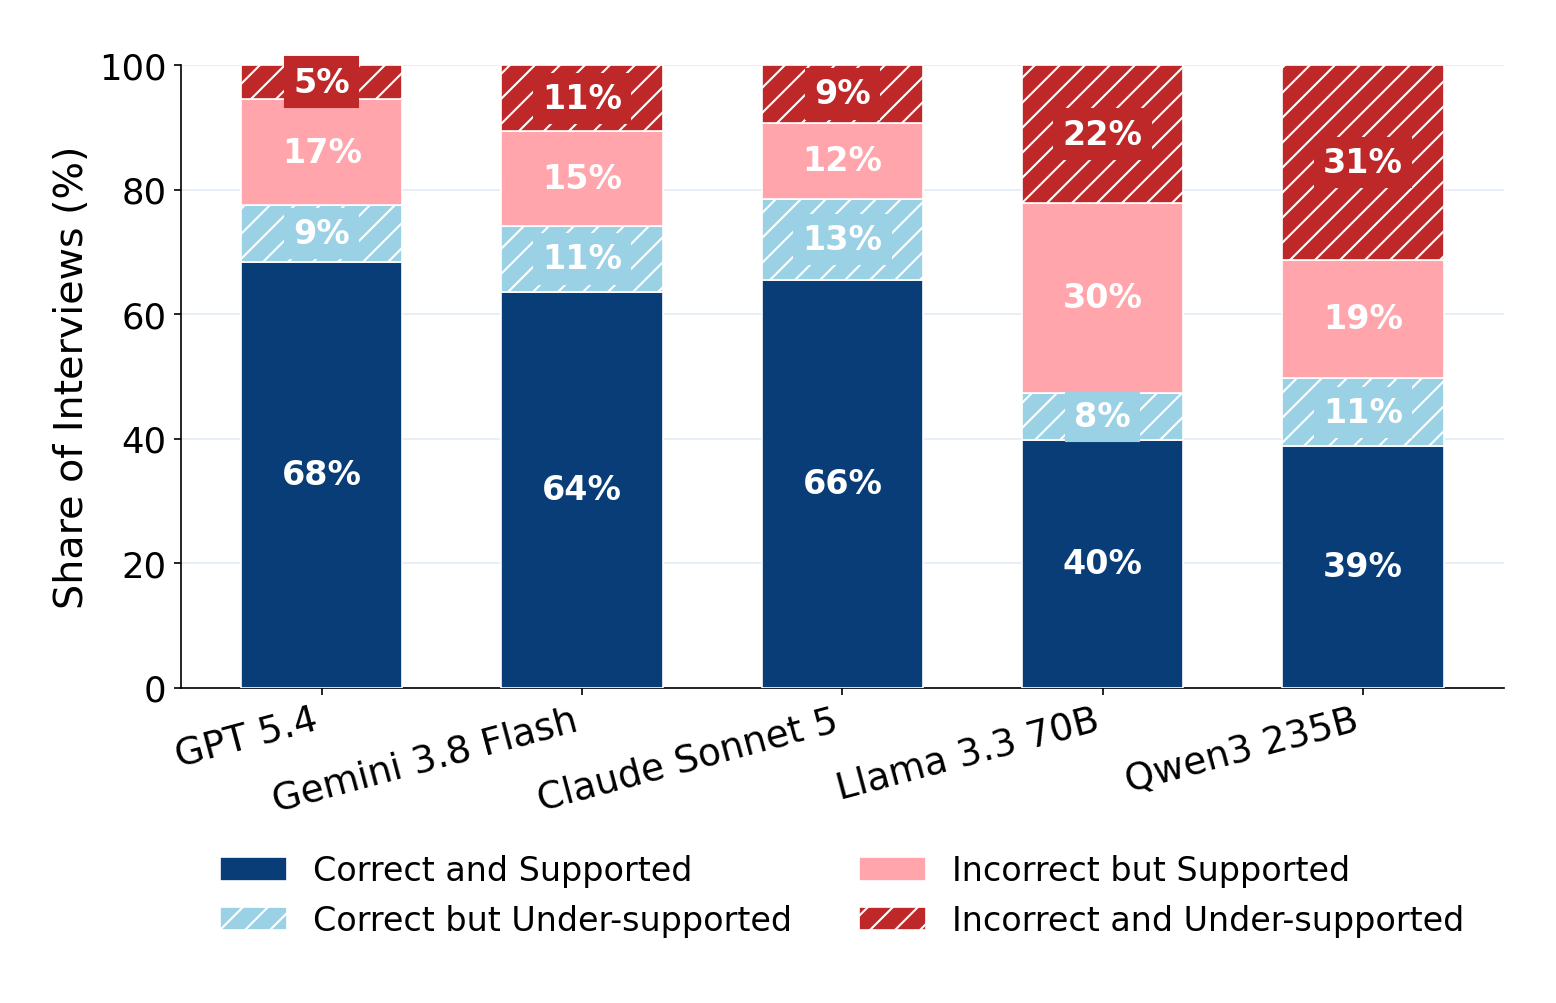
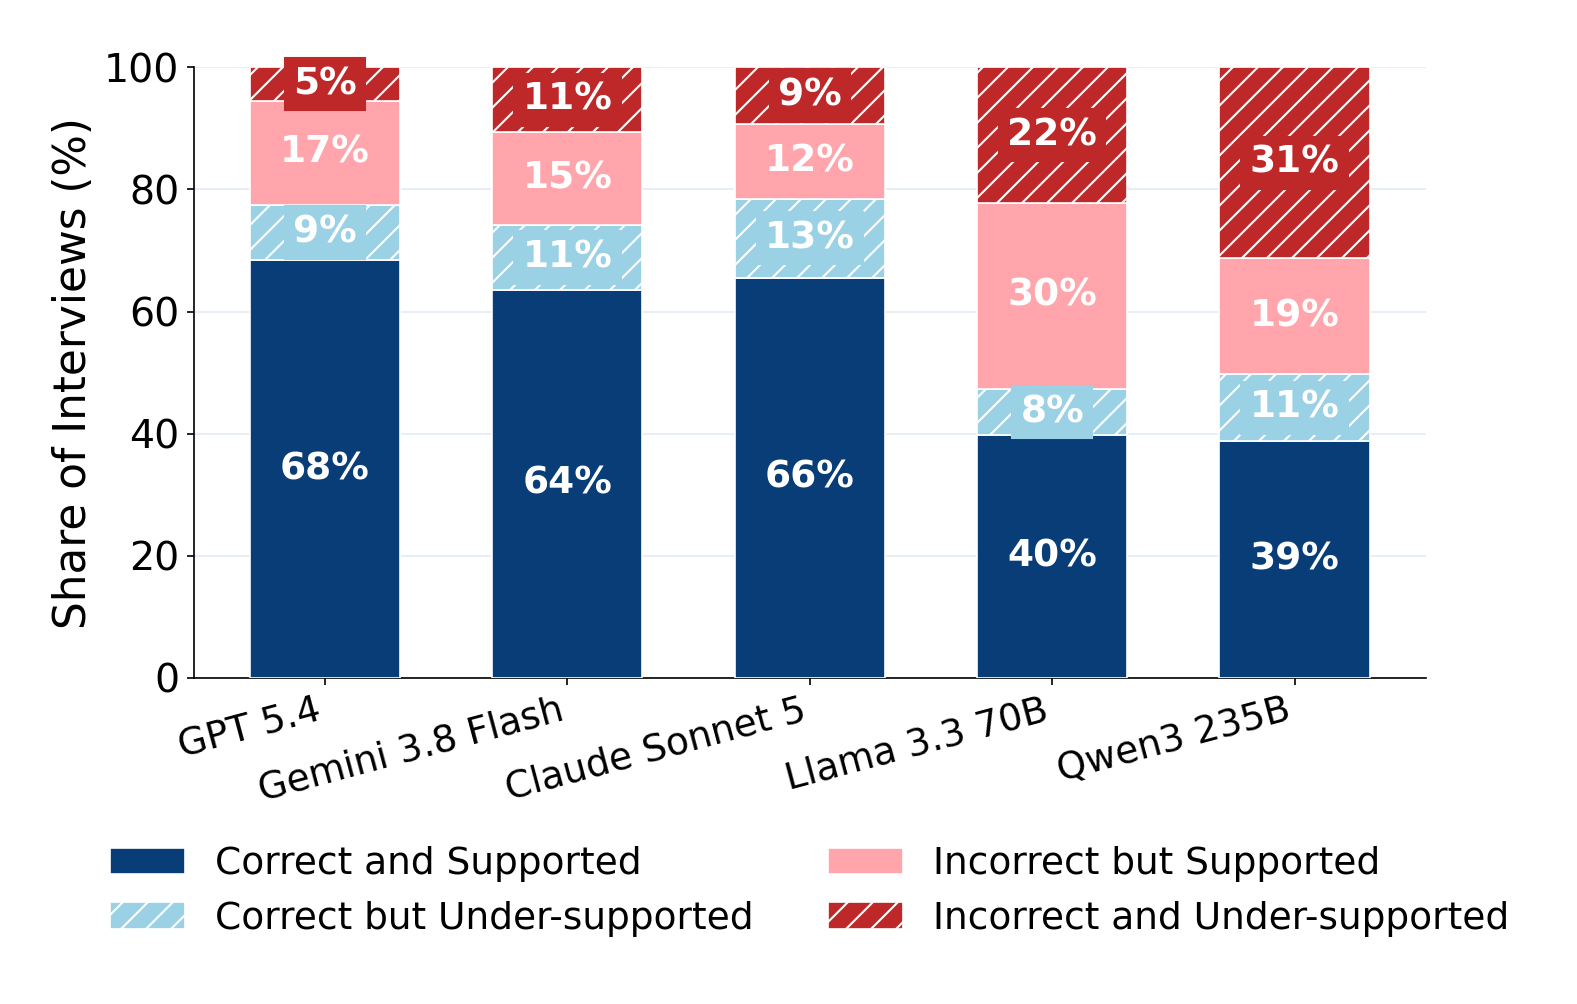
update: reporting figure styling and regenerated analysis figures
- reporting: larger fonts and adjusted layout/legends in
  plot_decision_vs_evidence, plot_narrowing_progress (t=1 tick label),
  plot_overcommitment_marimekko, plot_v4_precision_vs_recall,
  plot_v4_radar_by_judge; default MS_RUN=run_batch_20260912 where missing
- remove reporting/plot_v4_inference_quality_correlations.py (superseded)
- saved/run_batch_20260912/analysis: regenerated figures and
  v4_metrics_summary_plain.xlsx

diff --git a/reporting/plot_overcommitment_marimekko.py b/reporting/plot_overcommitment_marimekko.py
@@ -32,6 +32,7 @@ Usage:
 from __future__ import annotations
 
 import argparse
+import os
 from pathlib import Path
 
 import matplotlib.pyplot as plt
@@ -41,6 +42,8 @@ import sys as _sys
 _REPO_ROOT = Path(__file__).resolve().parent.parent
 if str(_REPO_ROOT) not in _sys.path:
     _sys.path.insert(0, str(_REPO_ROOT))
+
+os.environ.setdefault("MS_RUN", "run_batch_20260912")
 
 from utils.paths import ANALYSIS_ROOT, RUN_ROOT
 from reporting.plot_overcommitment_by_judge import COLOR_CONFIDENT, COLOR_OVERCOMMIT, _order_rank
@@ -96,7 +99,7 @@ def main() -> None:
     )) * 1.06
 
     for judge, rows in panels:
-        fig, ax = plt.subplots(figsize=(8.5, 1.1 * len(rows) + 1.8))
+        fig, ax = plt.subplots(figsize=(11.5, 1.1 * len(rows) + 1.8))
 
         n_rows = len(rows)
         for i, (doctor, s) in enumerate(rows):
@@ -117,10 +120,10 @@ def main() -> None:
             if pinned_h > 0:
                 ax.barh(slot_bottom, pinned_mean, height=pinned_h, align="edge",
                         color=COLOR_PINNED, edgecolor="white", linewidth=0.6, zorder=3)
-                if pinned_h > 0.06:
+                if pinned_h > 0.10:
                     ax.text(pinned_mean + ymax * 0.012, slot_bottom + pinned_h / 2,
                             f"{pinned_mean:.1f}", ha="left", va="center", 
-                            fontsize=14,
+                            fontsize=16, fontweight="bold",
                               color=COLOR_PINNED)
 
             if narrow_h > 0:
@@ -132,26 +135,26 @@ def main() -> None:
                 # (matches plot_overcommitment_by_judge.py's labeling)
                 if narrow_h > 0.10 and t1c > ymax * 0.04:
                     ax.text(t1c - 1, slot_bottom + pinned_h + narrow_h / 2,
-                            f"{t1c:.1f}", ha="center", va="center", fontsize=14, color="white", fontweight="bold")
+                            f"{t1c:.1f}", ha="center", va="center", fontsize=16, color="white", fontweight="bold")
                 # overcommitment (turns after 1st confident) value, centered
                 # in its own segment — same convention as the t1c label above.
                 if narrow_h > 0.10 and oc > ymax * 0.04:
                     ax.text(t1c + oc / 2, slot_bottom + pinned_h + narrow_h / 2,
-                            f"+{oc:.1f}", ha="center", va="center", fontsize=14,
+                            f"+{oc:.1f}", ha="center", va="center", fontsize=16,
                             color="white", fontweight="bold")
                 if narrow_h > 0.06:
                     ax.text(t1c + oc + ymax * 0.012, slot_bottom + pinned_h + narrow_h / 2,
-                            f"{t1c + oc:.1f}", ha="left", va="center", fontsize=14, color="#1C2333")
+                            f"{t1c + oc:.1f}", ha="left", va="center", fontsize=16, fontweight="bold", color="#1C2333")
 
             # share labels inside the base of each bar (white, small) rather
             # than past the bar's end, which would collide with the value
             # label placed there.
             if pinned_h > 0.10 and pinned_mean > ymax * 0.04:
                 ax.text(ymax * 0.012, slot_bottom + pinned_h / 2, f"{pinned_frac*100:.0f}%",
-                        ha="left", va="center", fontsize=14, color="white", fontweight="bold")
+                        ha="left", va="center", fontsize=16, color="white", fontweight="bold")
             if narrow_h > 0.10 and (t1c + oc) > ymax * 0.04:
                 ax.text(ymax * 0.012, slot_bottom + pinned_h + narrow_h / 2, f"{narrow_frac*100:.0f}%",
-                        ha="left", va="center", fontsize=14, color="white", fontweight="bold")
+                        ha="left", va="center", fontsize=16, color="white", fontweight="bold")
 
         # Break each canonical name onto two lines (before the last word) so
         # long names don't force extra left margin on the y-axis.
@@ -170,19 +173,19 @@ def main() -> None:
         # ax.set_title(f"Judge: {judge}", fontsize=12.5, fontweight="bold", pad=10)
         ax.grid(axis="x", color="#E4EBF5", linewidth=0.8, zorder=0)
         ax.spines[["top", "right"]].set_visible(False)
-        ax.set_xlabel("Mean turn count", fontsize=16)
-        ax.tick_params(axis="x", labelsize=12)
+        ax.set_xlabel("Mean turn count", fontsize=18)
+        ax.tick_params(axis="x", labelsize=14)
 
         handles = [
             plt.Rectangle((0, 0), 1, 1, color=COLOR_PINNED,
-                          label="Single fixed candidate\n" + r"(non-narrowing case; $\hat{C}_{\{1,\dots\}}=1$)"),
+                          label="Single fixed candidate\n" + r"(non-narrowing case; $\hat{C}_1=1$)"),
             plt.Rectangle((0, 0), 1, 1, color=COLOR_CONFIDENT,
                           label="Turns to convergence\n" + r"(narrowing case; $\hat{C}_t > 1$)"),
             plt.Rectangle((0, 0), 1, 1, color=COLOR_OVERCOMMIT,
                           label="Extended inquiry\n" + r"(narrowing case; $\hat{C}_t = 1$)"),
         ]
-        ax.legend(handles=handles, fontsize=14, loc="center right",
-                  bbox_to_anchor=(1, 0.6), borderaxespad=0.0,
+        ax.legend(handles=handles, fontsize=16, loc="center right",
+                  bbox_to_anchor=(1, 0.5), borderaxespad=0.0,
                 )#frameon=False)
 
         style_note = f"style={style}" if style else "all styles"

diff --git a/reporting/plot_v4_precision_vs_recall.py b/reporting/plot_v4_precision_vs_recall.py
@@ -118,10 +118,10 @@ def main() -> None:
 
     diag_lo = min(x_lo, y_lo)
     diag_hi = max(x_hi, y_hi)
-    ax.plot([diag_lo, diag_hi], [diag_lo, diag_hi], color="#c3c2b7", linewidth=1.2,
+    ax.plot([diag_lo, diag_hi], [diag_lo, diag_hi], color="#8a8977", linewidth=1.2,
             linestyle=":", zorder=1, clip_on=True)
     ax.annotate("precision = recall", (x_hi, min(x_hi, y_hi)), textcoords="offset points",
-                xytext=(-6, 4), ha="right", fontsize=10, color="#898781", style="italic")
+                xytext=(-6, 4), ha="right", fontsize=14, color="#5c5b55", style="italic")
 
     seen_models: set[str] = set()
     for judge, doctor, x, y in points:
@@ -132,14 +132,14 @@ def main() -> None:
                    edgecolors="white", linewidths=0.8, zorder=3, label=label)
         ax.annotate(DOCTOR_NAME_CANONICAL.get(doctor.lower(), doctor), (x, y),
                     textcoords="offset points", xytext=(7, 6),
-                    fontsize=12, color="#3a3a38")
+                    fontsize=14, color="#3a3a38")
 
     ax.set_xlim(x_lo, x_hi)
     ax.set_ylim(y_lo, y_hi)
 
-    ax.set_xlabel("Recall", fontsize=14, color="#52514e")
-    ax.set_ylabel("Precision", fontsize=14, color="#52514e")
-    ax.tick_params(axis="both", labelsize=12)
+    ax.set_xlabel("Recall", fontsize=16, color="#52514e")
+    ax.set_ylabel("Precision", fontsize=16, color="#52514e")
+    ax.tick_params(axis="both", labelsize=14)
     # ax.set_title(
     #     "evaluation_v5.md §1 — Precision vs. Recall",
     #     fontsize=12, fontweight="bold",
@@ -156,7 +156,7 @@ def main() -> None:
     ]
     judge_handles = [
         plt.Line2D([0], [0], marker=marker_of[j], color="w", markerfacecolor="#999999",
-                   markeredgecolor="white", markersize=10, label=JUDGE_NAME_CANONICAL.get(j, j))
+                   markeredgecolor="white", markersize=14, label=JUDGE_NAME_CANONICAL.get(j, j))
         for j in judges
     ]
     # legend: models
@@ -164,9 +164,11 @@ def main() -> None:
     #                   bbox_to_anchor=(1.02, 1.0), fontsize=12, frameon=False)
     # ax.add_artist(leg1)
     # legend: judges
-    ax.legend(handles=judge_handles, title="Patient & Judge", loc="lower right",
-              # bbox_to_anchor=(1.02, 0.0), 
-              fontsize=12, frameon=False)
+    ax.legend(handles=judge_handles, 
+              title="Patient & Judge", title_fontsize=16,
+              loc="lower right",
+              # bbox_to_anchor=(1.02, 0.0),
+              fontsize=16, frameon=False)
 
     fig.tight_layout()
     out_path = Path(args.out) if args.out else ANALYSIS_ROOT / "v4_precision_vs_recall.png"

diff --git a/reporting/plot_narrowing_progress.py b/reporting/plot_narrowing_progress.py
@@ -44,6 +44,7 @@ from __future__ import annotations
 import argparse
 import json
 from collections import defaultdict
+import os
 from pathlib import Path
 
 import matplotlib.pyplot as plt
@@ -54,9 +55,12 @@ _REPO_ROOT = Path(__file__).resolve().parent.parent
 if str(_REPO_ROOT) not in _sys.path:
     _sys.path.insert(0, str(_REPO_ROOT))
 
+os.environ.setdefault("MS_RUN", "run_batch_20260912")
+
 from utils.metric_compat import episode_mean_qts, turn_qts, csv_qts, csv_hypothesis
 from utils.paths import ANALYSIS_ROOT, RESULTS_ROOT, RUN_ROOT
 from reporting.plot_v4_radar_by_judge import DOCTOR_NAME_CANONICAL
+
 
 DEFAULT_DOCTORS = [
     "gpt-5.4",
@@ -223,14 +227,19 @@ def main() -> None:
             ias_str = f"{ias:.2f}" if ias is not None else "n/a"
             y_off = (rank - mid) * 15
             ax.annotate(f"{mean[-1]:.0f}% (QTS={ias_str})", (x_pct[-1], mean[-1]),
-                        textcoords="offset points", xytext=(8, y_off), fontsize=12,
+                        textcoords="offset points", xytext=(8, y_off), fontsize=14,
                         color=color, va="center", fontweight="bold",
                         arrowprops=dict(arrowstyle="-", color=color, lw=0.8, alpha=0.6))
 
         ax.axhline(0, color="#BBBBBB", linewidth=0.8, zorder=0)
         # ax.set_title(f"Judge: {judge}", fontsize=12.5, fontweight="bold", pad=10)
-        ax.set_xlabel("Relative Turn Progress (%)", fontsize=14)
+        ax.set_xlabel("Relative Turn Progress (%)", fontsize=16)
         ax.set_xlim(0, 125)
+        xticks = [0, 20, 40, 60, 80, 100]
+        xtick_labels = [str(t) for t in xticks]
+        xtick_labels[0] = r"0" + "\n" + r"($t$=1)"
+        ax.set_xticks(xticks)
+        ax.set_xticklabels(xtick_labels)
         ax.set_ylim(-15, 108)
         yticks = [0, 20, 40, 60, 80, 100]
         ytick_labels = [str(t) for t in yticks]
@@ -238,11 +247,12 @@ def main() -> None:
         ytick_labels[-1] = r"100" + "\n" + r"($\hat{C}_t$=$\hat{C}_1$)"
         ax.set_yticks(yticks)
         ax.set_yticklabels(ytick_labels)
+        ax.tick_params(axis="both", labelsize=14)
         ax.grid(color="#E4EBF5", linewidth=0.8, zorder=0)
         ax.spines[["top", "right"]].set_visible(False)
-        ax.legend(loc="lower left", fontsize=12, frameon=False)
+        ax.legend(loc="lower left", fontsize=14, frameon=False)
 
-        ax.set_ylabel("Remaining Candidate Set Size (%)", fontsize=14)
+        ax.set_ylabel("Remaining Candidate Set Size (%)", fontsize=16)
 
         # style_note = f"style={style}" if style else "all styles"
         # fig.suptitle(

diff --git a/reporting/plot_v4_radar_by_judge.py b/reporting/plot_v4_radar_by_judge.py
@@ -195,13 +195,13 @@ def main() -> None:
         ax.set_theta_direction(-1)
 
         ax.set_xticks(angles[:-1])
-        ax.set_xticklabels([label for label, _field in METRICS], fontsize=16)
+        ax.set_xticklabels([label for label, _field in METRICS], fontsize=18)
         ax.set_ylim(-zlim, zlim-0.5)
         yticks = np.linspace(-zlim, zlim-0.5, 6)
         ax.set_yticks(yticks)
-        ax.set_yticklabels([f"{t:+.1f}σ" for t in yticks], fontsize=10, color="gray")
-        ax.grid(color="lightgray", linewidth=0.7)
-        ax.spines["polar"].set_color("lightgray")
+        ax.set_yticklabels([f"{t:+.1f}σ" for t in yticks], fontsize=12, color="#5c5c5c")
+        ax.grid(color="#9a9a9a", linewidth=0.7)
+        ax.spines["polar"].set_color("#9a9a9a")
 
         # Dashed baseline ring at z=0 (the panel's per-metric mean).
         # ax.plot(angles, [0] * len(angles), color="dimgray", linewidth=1.2,
@@ -236,8 +236,8 @@ def main() -> None:
                        label=DOCTOR_NAME_CANONICAL.get(m, m))
             for m in models
         ]
-        ax.legend(handles=legend_handles, loc="upper right", fontsize=14,
-                  frameon=False, bbox_to_anchor=(1.2, 1.1))
+        ax.legend(handles=legend_handles, loc="upper right", fontsize=16,
+                  frameon=False, bbox_to_anchor=(1.3, 1.1))
 
         fig.tight_layout()
         out_path = Path(f"{out_prefix}{judge}.png")

diff --git a/reporting/plot_decision_vs_evidence.py b/reporting/plot_decision_vs_evidence.py
@@ -175,7 +175,7 @@ def main() -> None:
             for xi, (v, b) in enumerate(zip(vals, bottom)):
                 if v > 4:
                     ax.text(xi, b + v / 2, f"{v:.0f}%", ha="center", va="center",
-                            fontsize=16, color="white", fontweight="bold",
+                            fontsize=18, color="white", fontweight="bold",
                             backgroundcolor=color,
                             zorder=4)
             bottom += vals
@@ -184,14 +184,14 @@ def main() -> None:
         ax.set_xticklabels([DOCTOR_NAME_CANONICAL.get(d, d) for d in doctors], fontsize=18,
                             rotation=15, ha="right")
         ax.set_ylim(0, 100)
-        ax.set_ylabel("Share of Interviews (%)", fontsize=19)
-        ax.tick_params(axis="y", labelsize=17)
+        ax.set_ylabel("Share of Interviews (%)", fontsize=21)
+        ax.tick_params(axis="y", labelsize=19)
         ax.grid(axis="y", color="#E4EBF5", linewidth=0.8, zorder=0)
         ax.spines[["top", "right"]].set_visible(False)
         # ax.set_title(f"Judge: {judge}", fontsize=13, fontweight="bold", pad=14)
 
         ax.legend(loc="upper center", bbox_to_anchor=(0.5, -0.22), ncol=2,
-                  fontsize=16, frameon=False)
+                  fontsize=18, frameon=False)
 
         # style_note = f"style={style}" if style else "all styles"
         # fig.suptitle(
